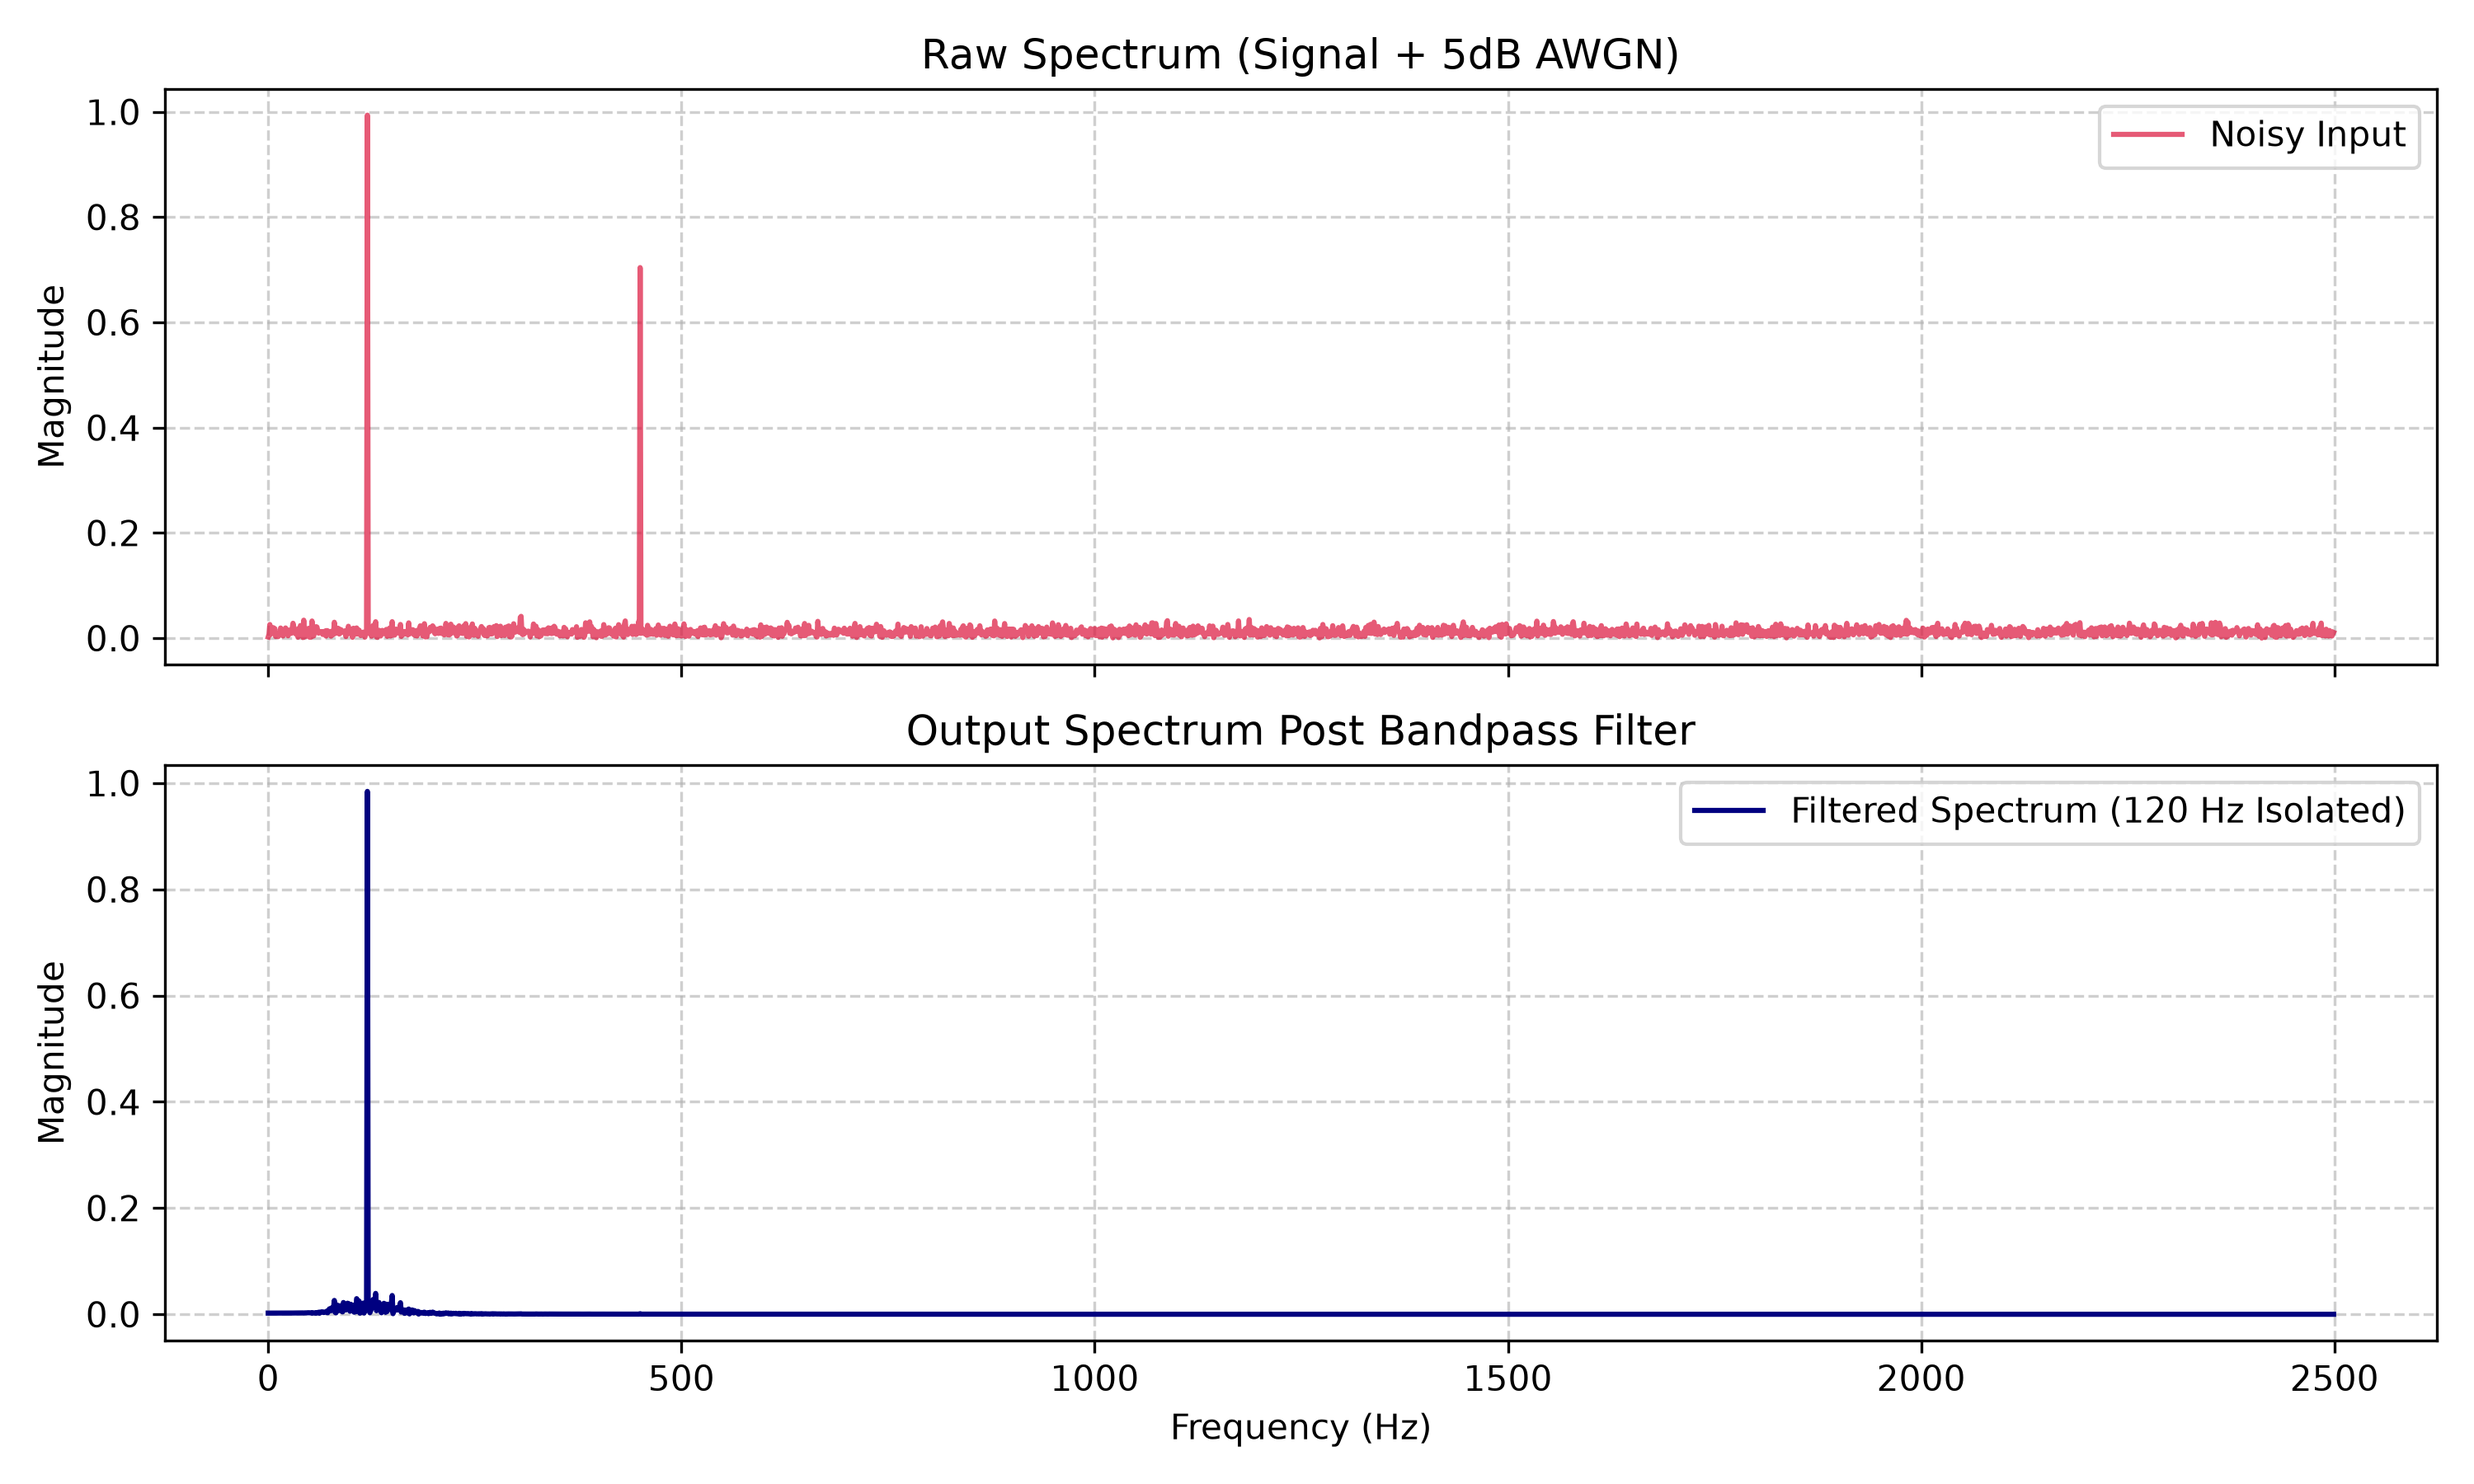
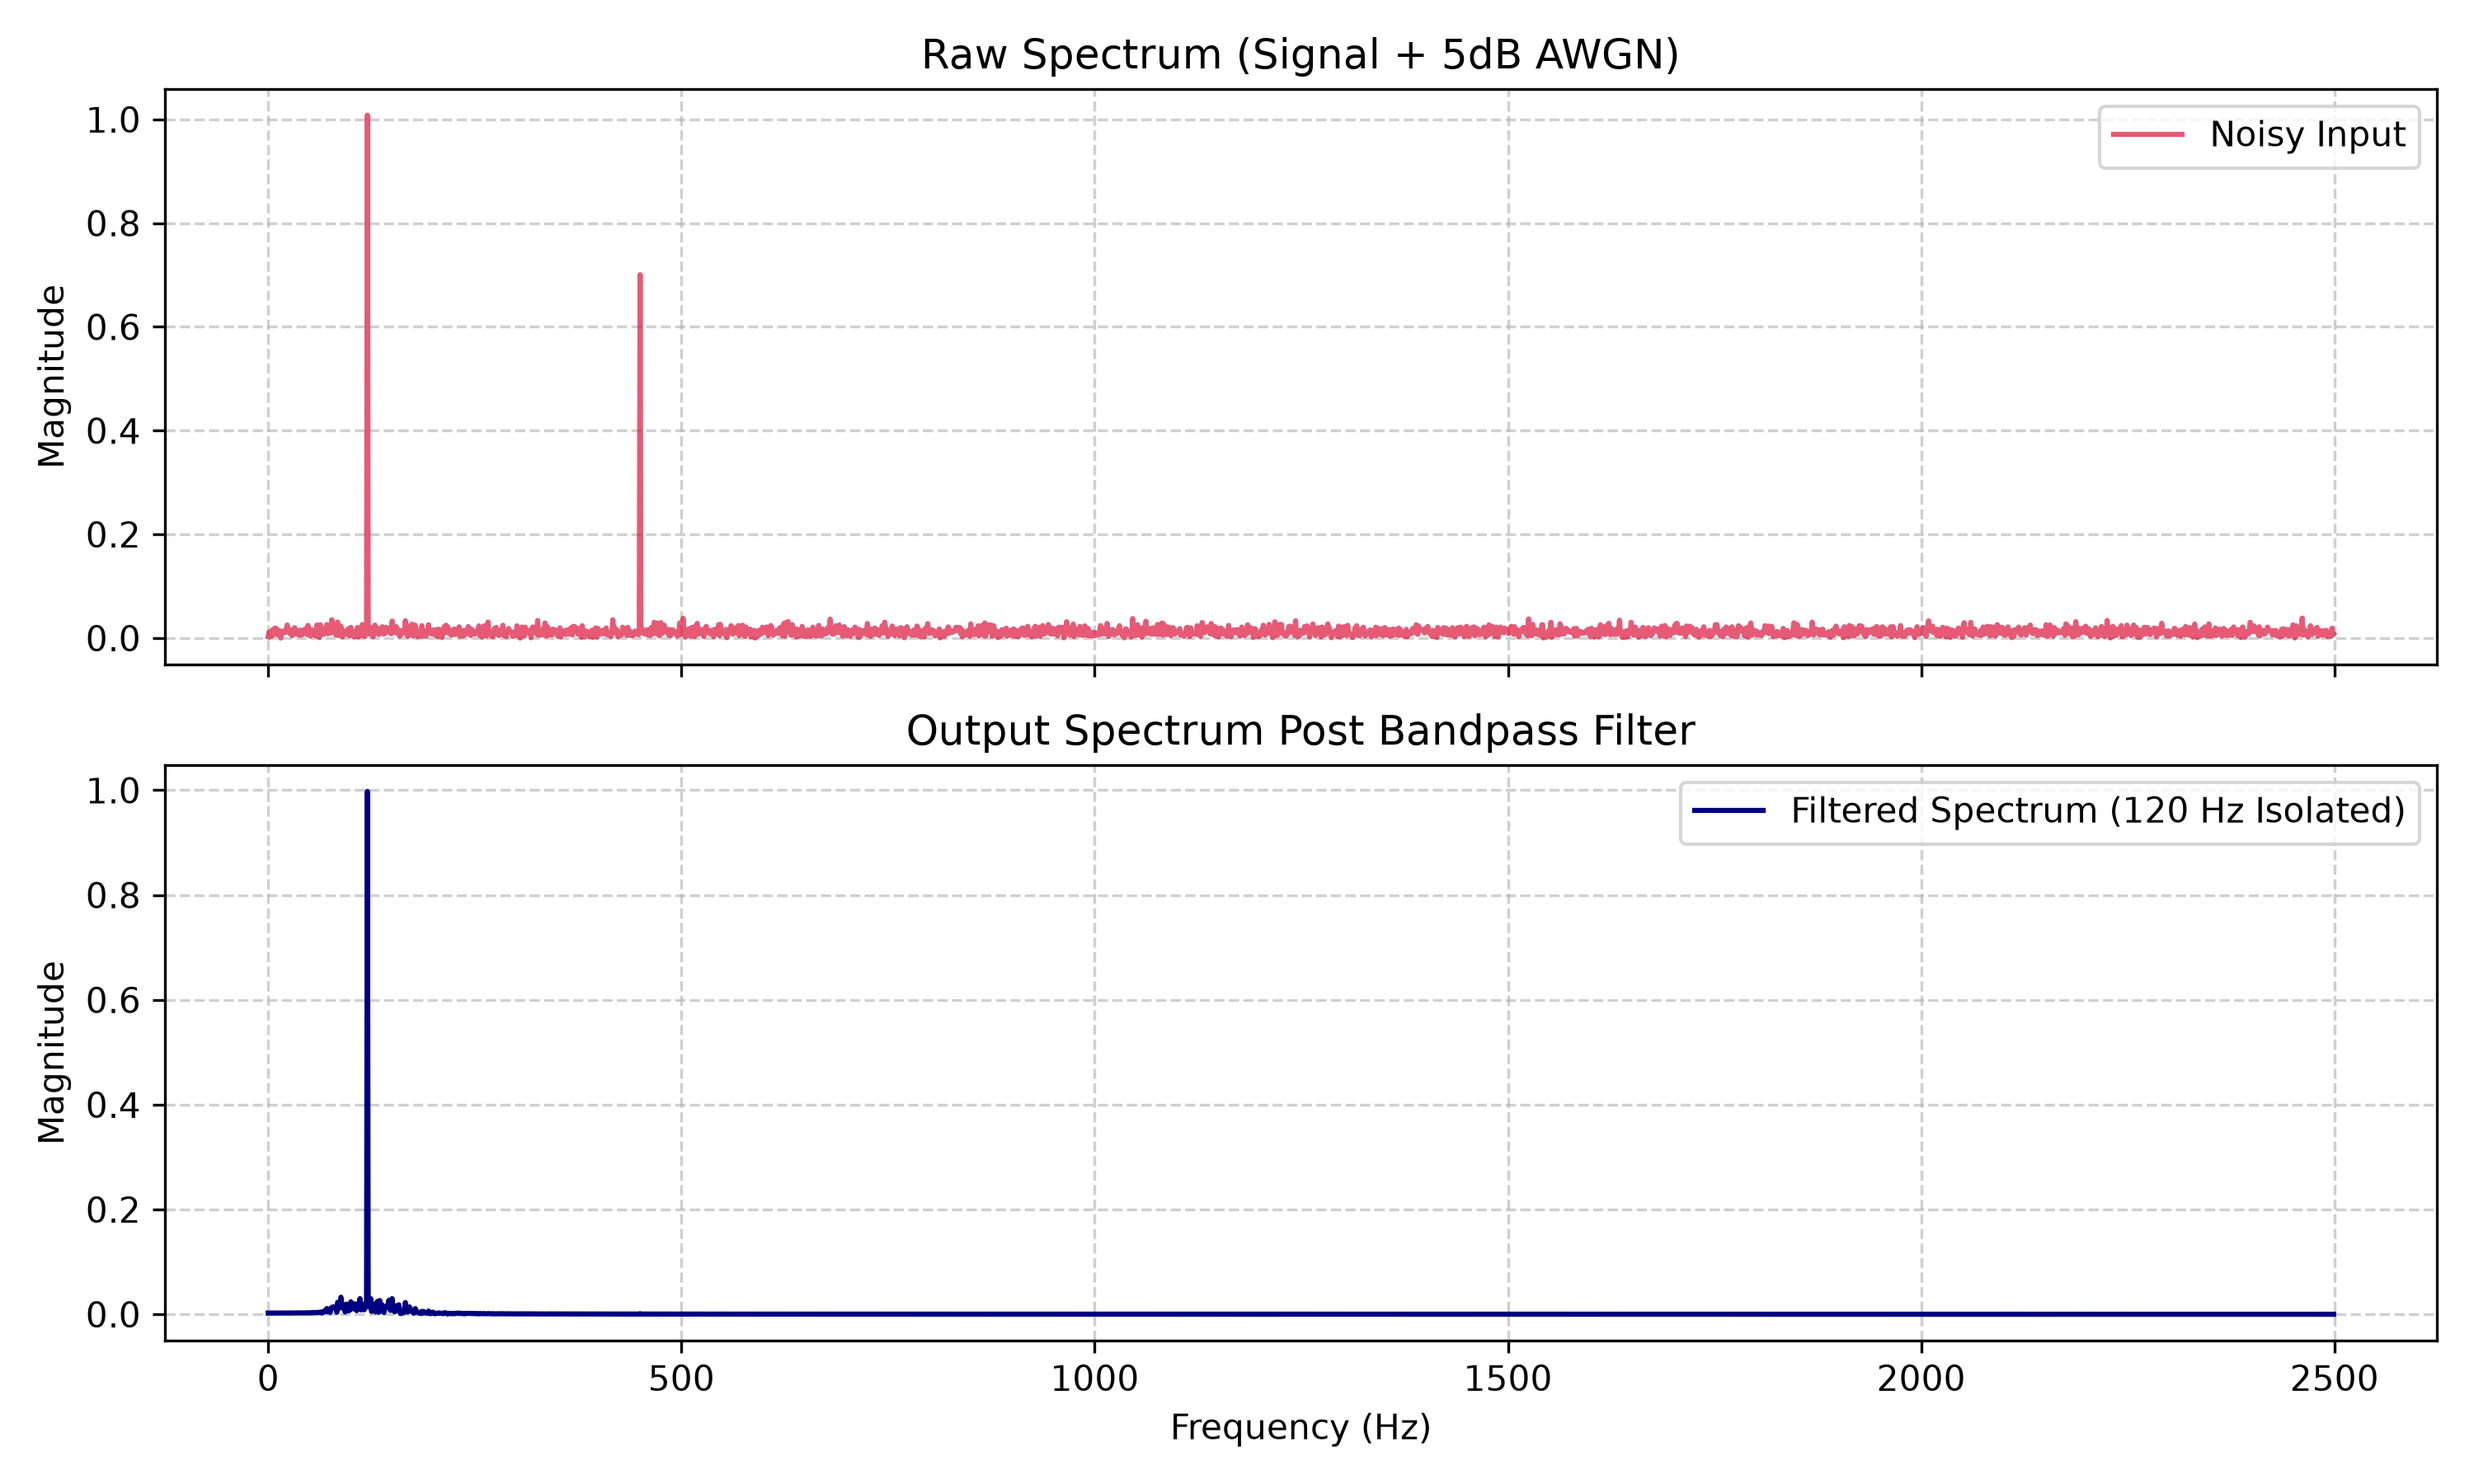
feat: report DSP tone retention and interference attenuation

diff --git a/dsp_pipeline.py b/dsp_pipeline.py
@@ -1,3 +1,7 @@
+from src.performance_metrics import (
+    calculate_tone_attenuation_db,
+    calculate_tone_retention_percent,
+)
 import matplotlib.pyplot as plt
 import numpy as np
 from scipy.fft import fft, fftfreq
@@ -60,7 +64,27 @@ def main():
     dsp.generate_multitone(freqs=[120.0, 450.0], amplitudes=[1.0, 0.7])
     dsp.add_awgn(snr_db=5.0)
     dsp.apply_bandpass(lowcut=80.0, highcut=160.0, order=4)
+    # Quantitative tone-level performance measurements
+    target_retention = calculate_tone_retention_percent(
+        dsp.noisy_signal,
+        dsp.filtered_signal,
+        dsp.fs,
+        120.0,
+    )
 
+    interference_attenuation = calculate_tone_attenuation_db(
+        dsp.noisy_signal,
+        dsp.filtered_signal,
+        dsp.fs,
+        450.0,
+    )
+
+    print("\n--- DSP Performance Report ---")
+    print(f"Target tone retention (120 Hz): {target_retention:.2f}%")
+    print(
+        "Interference attenuation (450 Hz): "
+        f"{interference_attenuation:.2f} dB"
+    )
     freqs, noisy_mag = dsp.compute_fft(dsp.noisy_signal)
     _, filtered_mag = dsp.compute_fft(dsp.filtered_signal)
 
